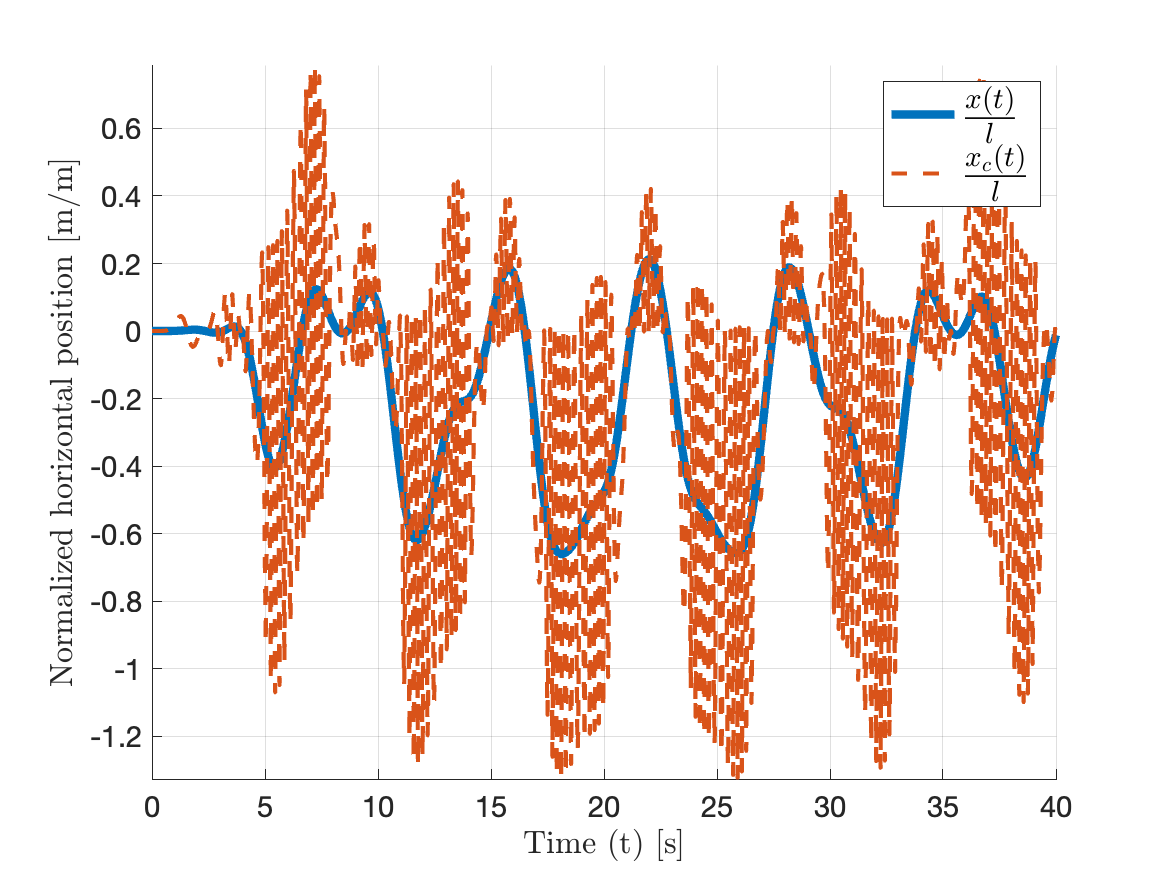
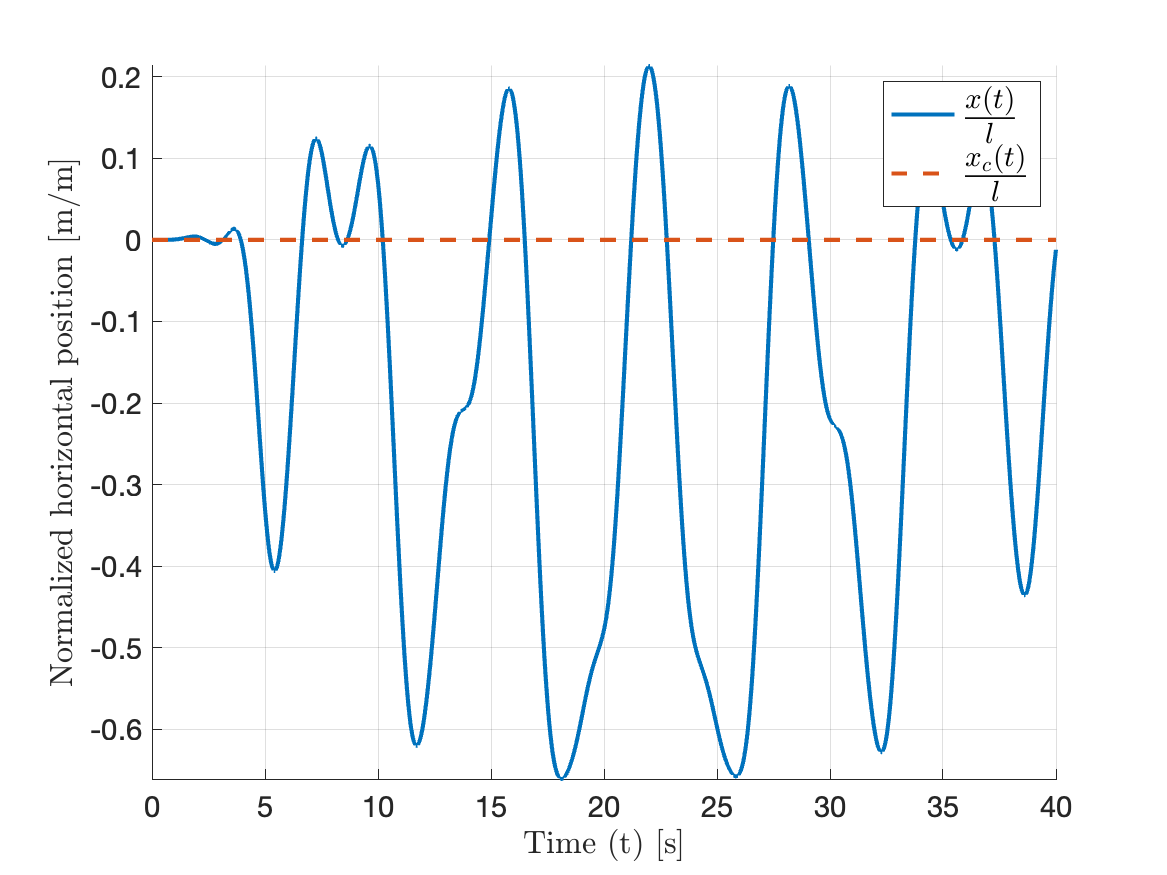
"fix some errors"

diff --git a/Hw1/main.m b/Hw1/main.m
@@ -4,7 +4,7 @@ close all;
 %% Solve DAE
 %
 options = odeset('RelTol', 1e-8, 'AbsTol', 1e-8);
-tspan = 0:0.001:40;  
+tspan = 0:0.01:40;  
 X0 = [0; 0; 0; 0; 0; 0];             
 [t, X] = ode45(@state_eq, tspan, X0, options); 
 
@@ -27,7 +27,6 @@ phi2_d = phi_d_data(2,:)';
 x = X(:, 1);
 y = X(:, 2);
 theta = X(:, 3);
-theta = rad2deg(theta);
 x_d = X(:, 4);
 y_d = X(:, 5);
 theta_d = X(:, 6);
@@ -46,6 +45,9 @@ for i = 1:length(t)
     p_cm_data = [p_cm_data, p_cm];
     v_cm_data = [v_cm_data, v_cm];
 end
+x_cm = p_cm_data(1,:);
+y_cm = p_cm_data(2,:);
+
 
 %% Torque and qb_dd
 %
@@ -80,9 +82,9 @@ saveas(gcf, 'images/a.png');
 figure;
 hold on;
 l = 0.1;
-plot(t, x/l, 'LineWidth', 4, 'DisplayName', '$\frac{x(t)}{l}$');
+plot(t, x/l, 'LineWidth', 2, 'DisplayName', '$\frac{x(t)}{l}$');
 hold on
-plot(t, p_cm_data(1,:)/l, '--', 'LineWidth', 2, 'DisplayName', '$\frac{x_c(t)}{l}$');
+plot(t, x_cm/l, '--', 'LineWidth', 2, 'DisplayName', '$\frac{x_c(t)}{l}$');
 xlabel('Time (t) [s]', 'Interpreter', 'latex');
 ylabel('Normalized horizontal position [m/m]', 'Interpreter', 'latex');
 lgd = legend;  
@@ -179,5 +181,4 @@ axis tight;
 saveas(gcf, 'images/g.png');
 
 %% Animation
-
-% animation(t,X);
+animation(t,X);

diff --git a/Hw1/dynamics_mat.m b/Hw1/dynamics_mat.m
@@ -3,7 +3,7 @@ function [M,B,G]=dynamics_mat(q, q_d)
 % Input - values of generalized coordinate and their velocity q, q_dot 
 % Output - matrices/vectors M(q), B(q, q_dot), G(q) for the dynamics equation of motion 
 % Xianle Zeng
-% 03-Dec-2024 10:16:16
+% 09-Dec-2024 11:38:33
 
 [m, l, g]=model_params;
 
@@ -44,7 +44,7 @@ B(5)=l^2*m*th_d^2*sin(phi2);
 
 % G matrix
 G=zeros(5,1);
-G(2)=-3*g*m;
-G(3)=g*l*m*(cos(phi1 + th) + cos(th)) - g*l*m*(cos(phi2 + th) + cos(th));
-G(4)=g*l*m*cos(phi1 + th);
-G(5)=-g*l*m*cos(phi2 + th);
+G(2)=3*g*m;
+G(3)=g*l*m*(cos(phi2 + th) + cos(th)) - g*l*m*(cos(phi1 + th) + cos(th));
+G(4)=-g*l*m*cos(phi1 + th);
+G(5)=g*l*m*cos(phi2 + th);

diff --git a/Hw1/center_of_mass.m b/Hw1/center_of_mass.m
@@ -3,7 +3,7 @@ function [p_cm, v_cm]=center_of_mass(q, q_d)
 % Input - values of generalized coordinate and their velocity q, q_dot 
 % Output - position of the center of mass p_cm, velocity of the center of mass v_cm 
 % Xianle Zeng
-% 03-Dec-2024 10:16:16
+% 09-Dec-2024 11:38:33
 
 [m, l, g]=model_params;
 

diff --git a/Hw1/gen_model_cat.m b/Hw1/gen_model_cat.m
@@ -62,9 +62,9 @@ if isempty(dir([filename,'.mat']))
     
     %% potential energy of masses in system
     %
-    PE_0 = -p_0(2)*m*g;
-    PE_1 = -p_1(2)*m*g;
-    PE_2 = -p_2(2)*m*g;
+    PE_0 = p_0(2)*m*g;
+    PE_1 = p_1(2)*m*g;
+    PE_2 = p_2(2)*m*g;
     
     %% total potential energy of system
     %

diff --git a/Hw1/angles_input.m b/Hw1/angles_input.m
@@ -3,7 +3,7 @@ function [phi, phi_d, phi_dd]=angles_input(t)
 % Input - time t 
 % Output - vectors of phi(t), phi_d(t), phi_dd(t) 
 % Xianle Zeng
-% 03-Dec-2024 10:16:16
+% 09-Dec-2024 11:38:33
 
 [omega,alfa,Psi,beta]=control_parameters;
 
